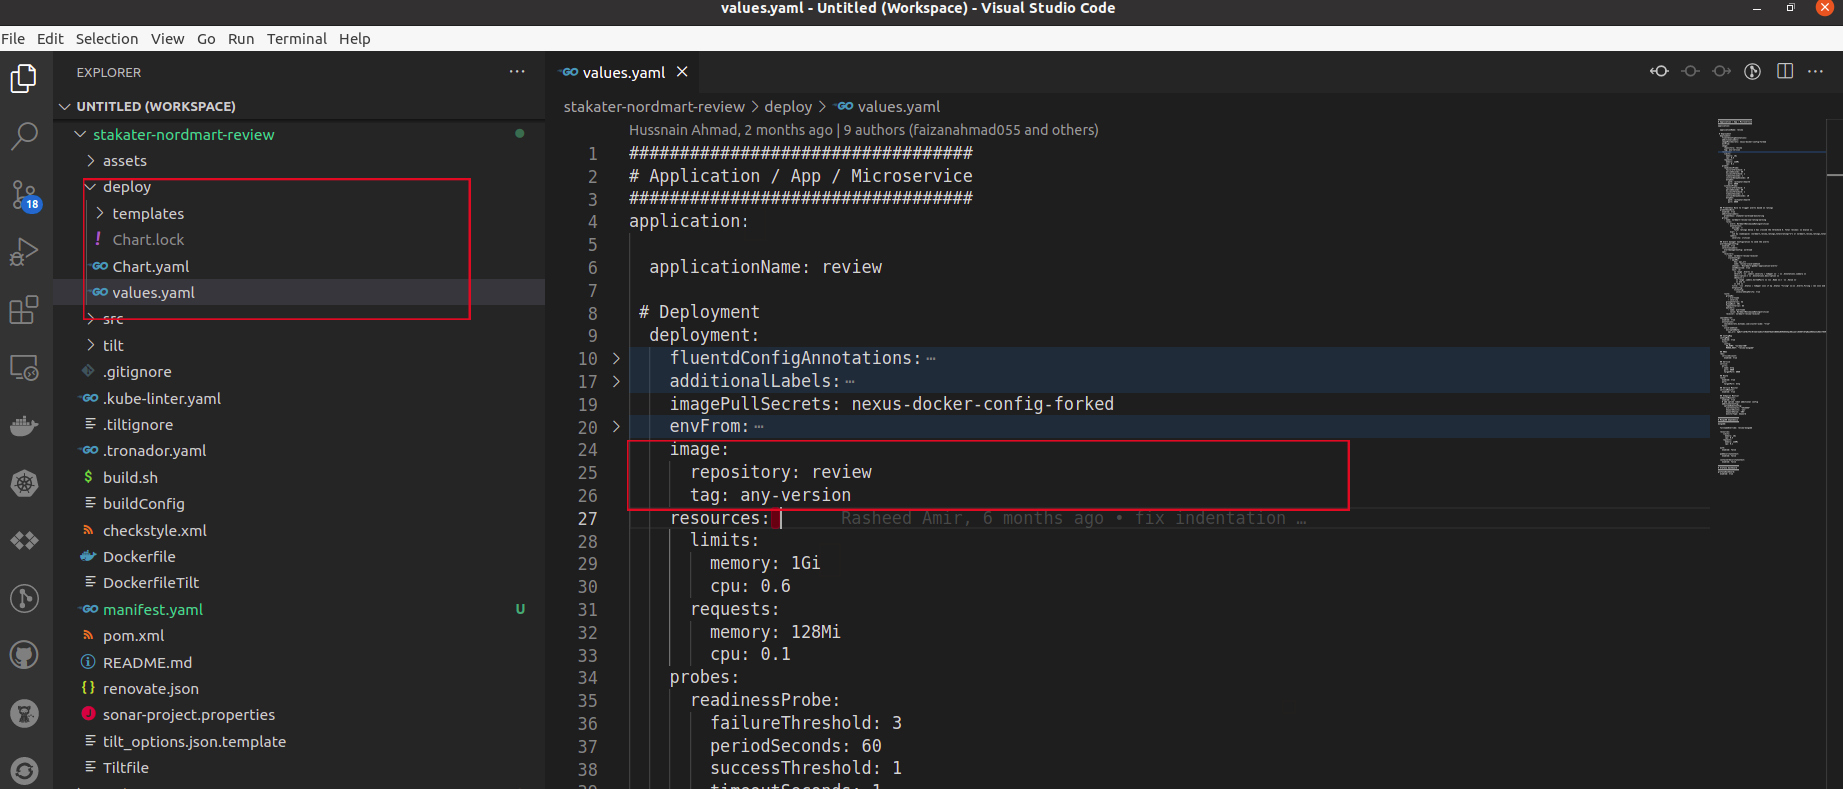
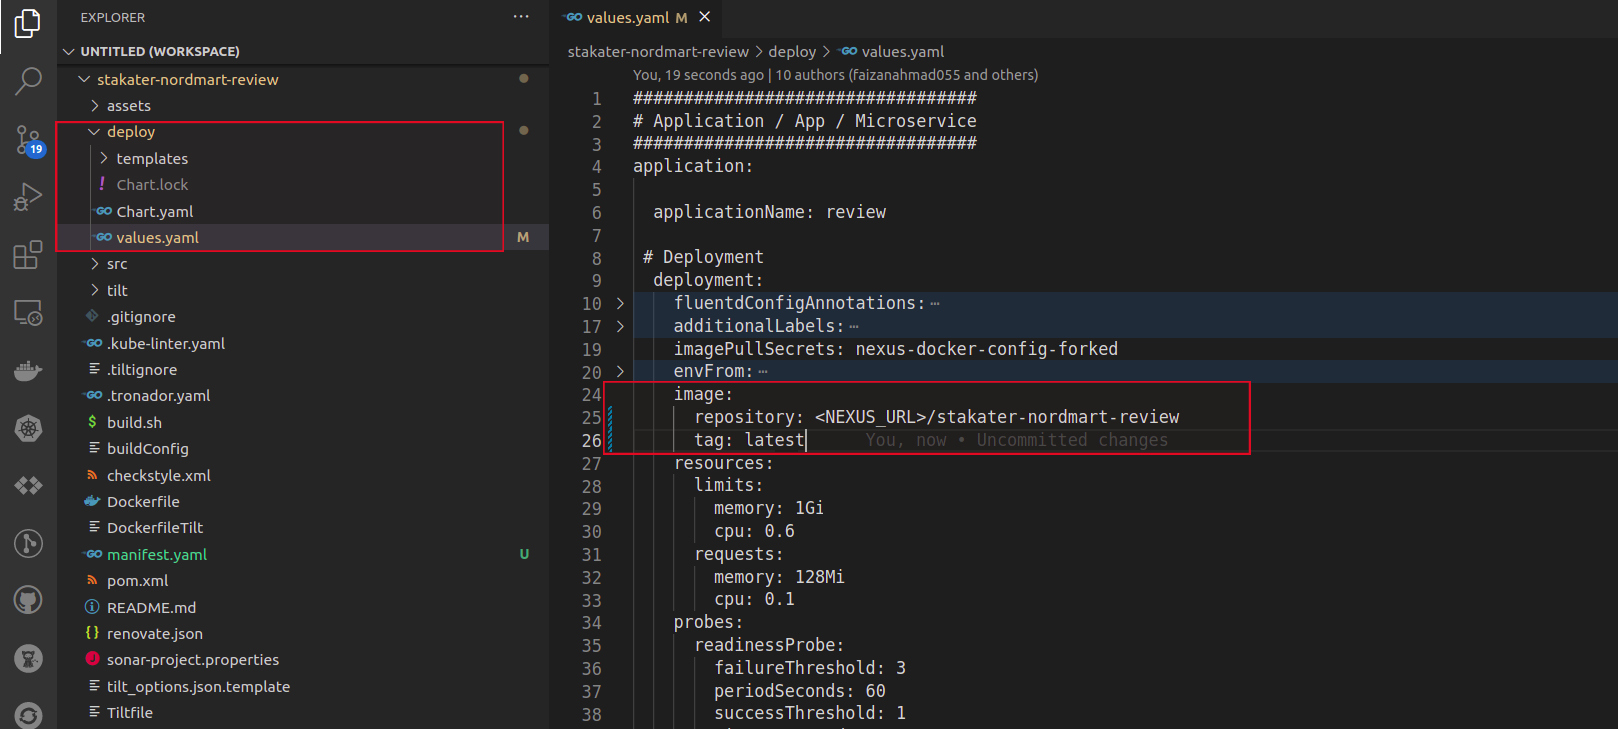
add section 1 part 6 deploy stakater-nordmart-review

Changed region(s): [[0.2472, 0.1509, 1.0, 1.0], [0.0, 0.0, 1.0, 1.0]]

diff --git a/docs/1-the-manual-menace/6-nordmart-review.md b/docs/1-the-manual-menace/6-nordmart-review.md
@@ -1,11 +1,80 @@
-## Nordmart Review
+## Deploy Nordmart Review and Nordmart Review UI
 
 ### Architecture
 
 Nordmart Review product is composed of three components:
 
-1. **nordmart-review:** A spring boot based REST API
-2. **nordmart-review-ui:** A react based frontend to managing reviews
+1. **stakater-nordmart-review:** A spring boot based REST API
+2. **stakater-nordmart-review-ui:** A react based frontend to managing reviews
 3. **mongodb:** A database to hold reviews
 
-![nordmart-review-architecture](./images/nordmart-review-architecture.jpg)
+![stakater-nordmart-review-architecture](images/stakater-nordmart-review-architecture.jpg)
+
+### Lets get started 
+
+We will first setup the stakater-nordmart-review repository and deploy it on our cluster via helm chart.
+
+## Stakater-Nordmart-Review
+1. Clone the stakater-nordmart-review repository that you imported from github to your gitlab account.
+
+        # git clone https://<GITLAB_SERVER>/<YOUR_GITLAB_GROUP>/<YOUR_REPO_NAME>
+        git clone https://gitlab.apps.devtest.vxdqgl7u.kubeapp.cloud/workshop-exercise/stakater-nordmart-review
+
+        # cd <YOUR_REPO_NAME>
+        cd stakater-nordmart-review
+
+2. Open values.yaml file in the editor and change the **application.deployment.image.repository** and **application.deployment.image.tag** keys in yaml
+    > **NOTE:**  We have already built an image for the application and pushed it to nexus image repository.  
+
+    repository: <NEXUS_URL>/stakater-nordmart-review
+    tag: latest
+
+    <p align="center" width="100%">
+    <img width="100%" src="images/1-6-1-change-image-tag.jpg">
+    </p>
+
+3. Lets use helm to install our stkater-nordmart-review application to the cluster. Run following command in stakater-nordmart-review directory.
+
+        helm install <TENANT_NAME> deploy/ -n <TENANT_NAME>-test --dependency-update
+
+    > **NOTE**: Make sure you are logged into the openshift cluster via cli.
+
+    > Thanks to **tenant operator** this **<TENANT_NAME>-test** project is already available to us in the cluster where we can deploy this application
+
+4. Login to Openshift UI, Select your project  **<TENANT_NAME>-test** and Navigate to Pods under Workloads in left side bar. 
+
+    <p align="center" width="100%">
+    <img width="%" src="images/1-6-2-oc-pods-ui">
+    </p>
+
+5. You will see a pod named review-web / <application_name> created. Helm also created the following supporting resources.
+
+ - ServiceAccount
+ - ConfigMap
+ - PersistentVolumeClaim
+ - Service
+ - Deployment
+ - AlertmanagerConfig
+ - EndpointMonitor
+ - GrafanaDashboard
+ - PrometheusRule
+ - Route
+ - Service
+ - SealedSecret
+ - ServiceMonitor
+
+
+6. Navigate to Routes under Network in left side bar. Our application is available via this endpoint. 
+
+    <p align="center" width="100%">
+    <img width="%" src="images/1-6-2-oc-route-ui">
+    </p>
+
+    Lets send a curl request to this endpoint and see the response.
+        
+        # Get Review
+        curl <ROUTE_LOCATION>:8080/api/review/329199
+
+        # Add a Review with Username: bumblebee, ProductId: 329199, Review Rating: 5 and Comment: great
+        curl -X POST '<ROUTE_LOCATION>:8080/api/review/329199/bumblebee/5/great'
+        
